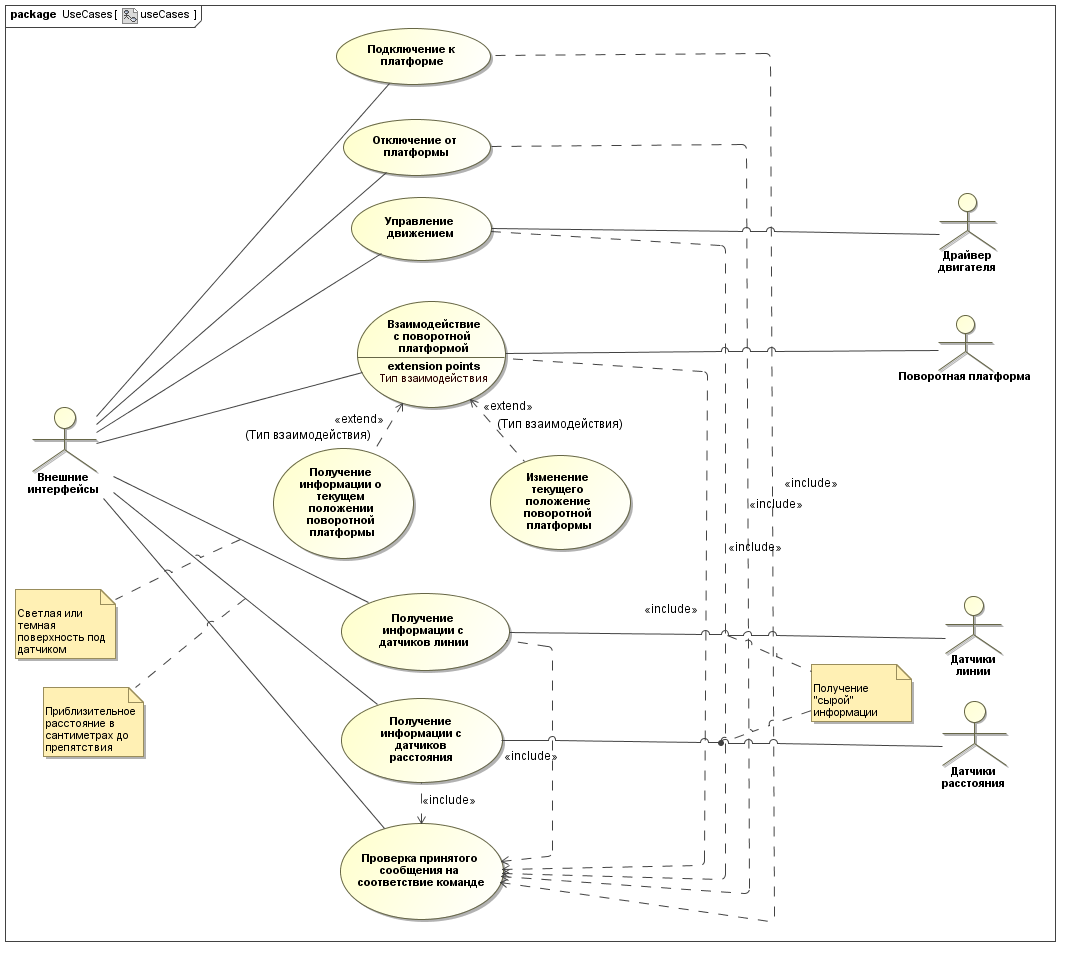
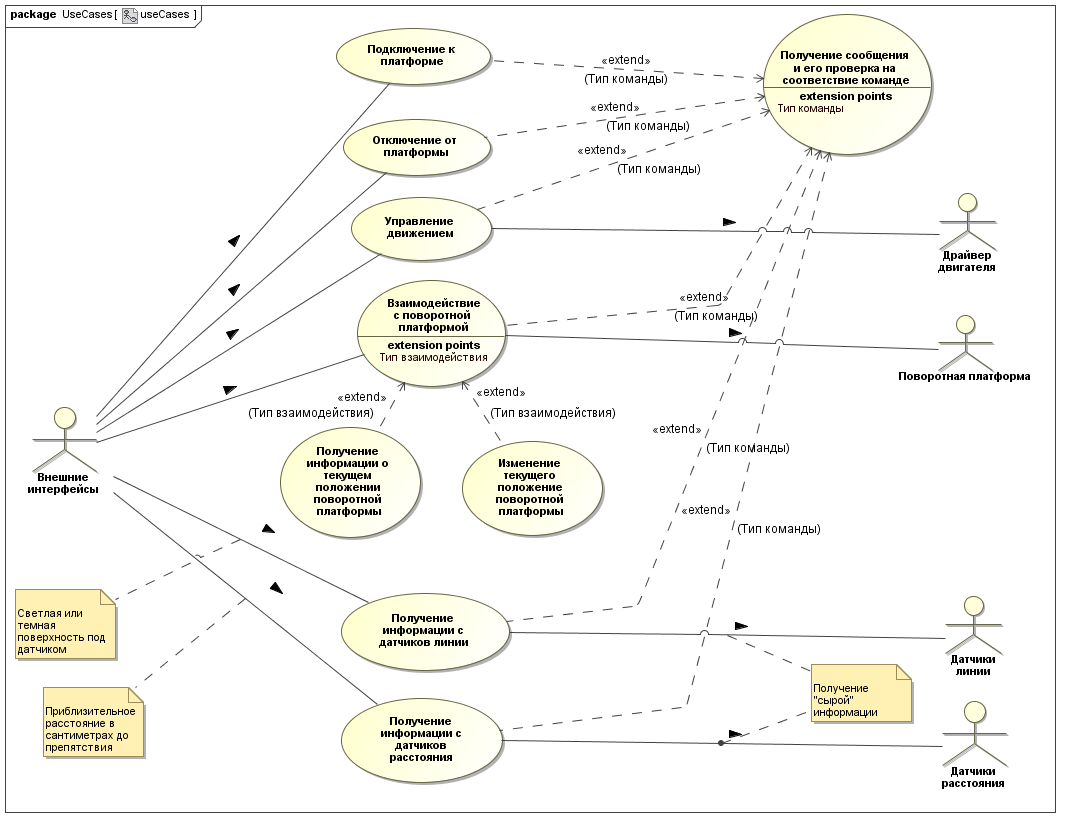
Requirements was updated to version 1.4. Use Case diagram too.

diff --git a/docs/Requirements.md b/docs/Requirements.md
@@ -23,12 +23,14 @@
 
 # Версия документа
 
-1.3
+1.4
 
 <a name="revisions"/>
 
 # Список изменений
 
+- Версия 1.4 (2017.10.29)
+    В фунциональных требованиях поправлены формулировки требований к отключению
 - Версия 1.3 (2017.10.29)
     В фунциональных требованиях объединено взаимодействие с поворотной платформой в один общий пункт
 - Версия 1.2 (2017.10.28)
@@ -230,8 +232,8 @@
 <!-- Можно представить в виде нумерованного списка (для однозначной идентификации требований) -->
 
 1. возможность подключения к платформе;
-1. возможность отключения от платформы вручную;
-1. отключение от платформы по истечению определенного промежутка времени;
+1. возможность принудительного отключения от платформы;
+1. автоматическое отключение от платформы по истечению определенного промежутка времени;
 1. управление гусеничной платформой (управление движением):  
     - движение вперед;
     - движение назад;
@@ -247,9 +249,7 @@
 1. получение корректной информации с датчиков линии (с "заводской" калибровкой датчиков
 в виде констант);  
 1. получение корректной информации с датчиков расстояния (с "заводской" калибровкой датчиков 
-в виде констант);  
-1. обработка поврежденных и неподдерживаемых команд: при получении такой команды возвращать ошибку 
-(см. [управляющие ответы](#service_answers));  
+в виде констант);
 
 <a name="nonfunctional_requires"/>
 
